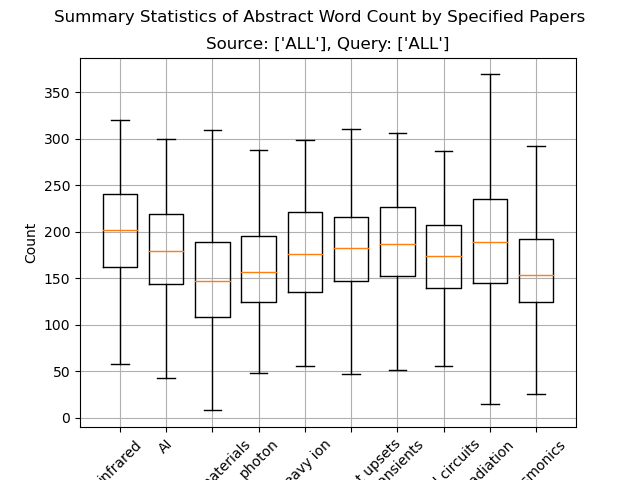
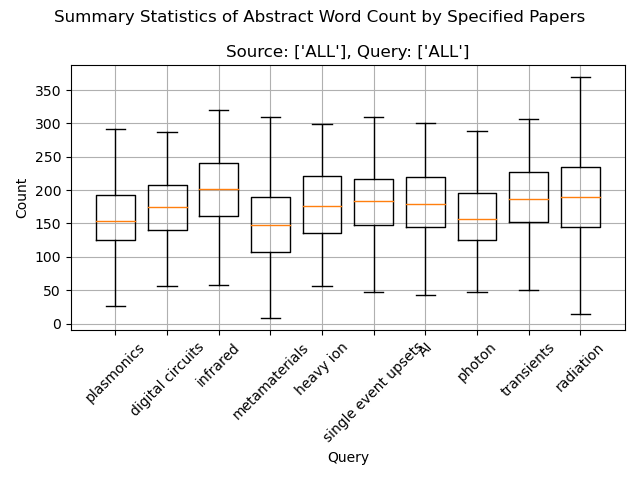
image regeneration, removed duped code from bad merge, added # of articles in db summ title

diff --git a/code/Modules/eda_graphing.py b/code/Modules/eda_graphing.py
@@ -22,6 +22,7 @@ class XForce_Grapher():
         self._queries = None
         self._summary = None
         self._nlp_summary = None
+        self._data_size = None
         self.load("../data/complete_db.csv")
         return None
 
@@ -64,6 +65,7 @@ class XForce_Grapher():
         queries.append("ALL")
 
         self._data = df
+        self._data_size = len(df)
         self._sources = sources
         self._queries = queries
         return None
@@ -126,6 +128,7 @@ class XForce_Grapher():
         plt.grid("True")
         plt.xticks(rotation=45)
         plt.hist(dates, 25, alpha=.75)
+        plt.tight_layout()
         plt.savefig(f"../images/pub_freq/pub_freq_{'_'.join(title_sources)}_{'_'.join(title_queries)}.png")
         plt.show()
 
@@ -205,11 +208,12 @@ class XForce_Grapher():
             p = ax.bar(sources, count, width, label=query, bottom=bottom)
             bottom += count
 
-        plt.title(f"Distribution of Articles")
+        plt.title(f"Distribution of {self._data_size} Articles")
         plt.xlabel("Source")
         plt.ylabel("Counts")
         plt.grid("True")
         plt.legend(loc='upper left', bbox_to_anchor=(1,1))
+        plt.tight_layout()
         plt.savefig(f"../images/db_summ/db_summ.png")
         plt.show()
 
@@ -332,6 +336,7 @@ class XForce_Grapher():
         plt.xticks(rotation=45)
         plt.boxplot(graph_data, positions=np.array(range(len(graph_data)))*2.0, sym='', widths=1.5)
         plt.xticks(range(0, len(queries)*2, 2), queries, rotation=45)
+        plt.tight_layout()
         plt.savefig(f"../images/text_freq/text_freq_{'_'.join(title_sources)}_{'_'.join(title_queries)}.png")
         plt.show()
 
@@ -427,202 +432,6 @@ class XForce_Grapher():
 
         return None
     
-    def load_nlp_summary(self) -> None:
-        """
-        Creates and saves the NLP summary report in class variable.
-
-        Returns -> None
-            Saves the NLP summary report.
-        
-        Example
-            grapher = XForce_Grapher()
-            grapher.load_nlp_summary()
-        """
-        # Filtering
-        df = self._data.copy()
-        df = df[["source", "query", "published", "url", "title", "abstract"]]
-
-        # Cleaning
-        df.dropna(inplace=True)
-        df.loc[:, "title"] = df.loc[:, "title"].map(lambda x: x.lower())
-        df.loc[:, "abstract"] = df.loc[:, "abstract"].map(lambda x: x.lower())
-        punctuation = ["?", "‘", "’", "'", ",", ".", "“", '"', "”", "[", "]", "(", ")", "/"]
-        for mark in punctuation:
-            df.loc[:, "title"] = df.loc[:, "title"].str.replace(mark, "", regex=True)
-            df.loc[:, "abstract"] = df.loc[:, "abstract"].str.replace(mark, "", regex=True)
-
-        # Feature Engineering
-        df["title_char_count"] = df.loc[:, "title"].map(lambda x: len(x))
-        df["title_word_count"] = df.loc[:, "title"].map(lambda x: len(x.split(" ")))
-        df["abstract_char_count"] = df.loc[:, "abstract"].map(lambda x: len(x))
-        df["abstract_word_count"] = df.loc[:, "abstract"].map(lambda x: len(x.split(" ")))
-
-        # Saving
-        self._nlp_summary = df
-        
-        # Return
-        return None
-    
-    def graph_text_count(self, 
-                         queries: list=["ALL"], 
-                         source: str="ALL", 
-                         text_mode: str="word", 
-                         type_mode: str="abstract") -> None:
-        """
-        Graphs the text_mode (character or word) count of type_mode (title or abstract) of paper entries. 
-
-        queries -> list
-            Given list of queries to graph on
-            If list contains the string "ALL", it will graph every query
-
-        source -> str
-            Given source to filter on
-            If given string is "ALL", then it will graph from all sources
-
-        type_mode -> str
-            Given type mode to filter on
-            "title": Graphs on title
-            "abstract": Graphs on abstract
-
-        text_mode -> str
-            Given type mode to filter on
-            "char": Graphs via character count
-            "word": Graphs via word count
-
-        Returns -> None
-            Shows matplotlib graph of the text counts
-        
-        Example
-            grapher = XForce_Grapher()
-            grapher.graph_text_count(queries=["radiation", "plasmonics"], source="arxiv", text_mode="word", type_mode="abstract")
-        """
-        text_mode_options = {"char", "word"}
-        if text_mode not in text_mode_options:
-            raise ValueError(f"{text_mode} invalid; must be {text_mode_options}")
-
-        type_mode_options = {"title", "abstract"}
-        if type_mode not in type_mode_options:
-            raise ValueError(f"{type_mode} invalid; must be {type_mode_options}")
-
-        if source not in self._sources:
-            raise ValueError(f"{source} invalid, must be {self._sources}")
-        
-        for query in queries:
-            if query not in self._queries:
-                raise ValueError(f"{query} in queries list invalid, must be {self._queries}")
-
-        df = self._nlp_summary.copy()
-        if source != "ALL":
-            df = df[df["source"] == source]
-
-        title_label = queries
-        if "ALL" in queries:
-            queries = self._queries.copy()
-            title_label = "ALL"
-
-        expression = f"{type_mode}_{text_mode}_count"
-
-        graph_data = []
-        for query in queries:
-            graph_data.append(df[df["query"] == query][expression])
-
-        plt.title(f"Source: {source}, Query: {title_label}")
-        plt.suptitle(f"Summary Statistics of {type_mode.title()} {text_mode.title()} Count by Specified Papers")
-        plt.xlabel("Query")
-        plt.ylabel("Count")
-        plt.grid("True")
-        plt.xticks(rotation=45)
-        plt.boxplot(graph_data, positions=np.array(range(len(graph_data)))*2.0, sym='', widths=1.5)
-        plt.xticks(range(0, len(queries)*2, 2), queries, rotation=45)
-        plt.show()
-
-        return None
-    
-    def graph_keyword_freq(self, 
-                           queries: list=["ALL"], 
-                           source: str="ALL", 
-                           type_mode: str="abstract", 
-                           k: int=15, 
-                           n_gram: int=1, 
-                           stop_words: set=helper.MASTER_STOP_WORDS) -> None:
-        """
-        Graphs the keyword frequency of the specified papers. 
-
-        queries -> list
-            Given list of queries to graph on
-            If list contains the string "ALL", it will graph every query
-
-        source -> str
-            Given source to filter on
-            If given string is "ALL", then it will graph from all sources
-
-        type_mode -> str
-            Given type mode to filter on
-            "title": Graphs on title
-            "abstract": Graphs on abstract
-
-        k -> int
-            The number of top n-grams to be graphed
-
-        n_gram -> int
-            The n-grams to graph on
-
-        stop_words -> set
-            The set of stop_words to use in the CountVectorizer()
-
-        Returns -> None
-            Shows matplotlib graph of the text counts
-        
-        Example
-            grapher = XForce_Grapher()
-            grapher.graph_text_count(queries=["radiation", "plasmonics"], source="arxiv", type_mode="abstract", k=15, n_grams=1)
-        """
-        df = self._nlp_summary.copy()
-
-        type_mode_options = {"title", "abstract"}
-        if type_mode not in type_mode_options:
-            raise ValueError(f"{type_mode} invalid; must be {type_mode_options}")
-
-        if source not in self._sources:
-            raise ValueError(f"{source} invalid, must be {self._sources}")
-        
-        for item in queries:
-            if item not in self._queries:
-                raise ValueError(f"{item} in your queries list invalid, must be {self._queries}")
-
-        if source != "ALL":
-            df = df[df["source"] == source]
-
-        if "ALL" in queries:
-            queries = self._queries.copy()
-            title_label = "ALL"
-        else:
-            condition_prefix = "df['query'] == "
-            expression = " | ".join([f"({condition_prefix}'{query}')" for query in queries])
-            df = df[eval(expression)]
-            title_label = queries
-
-        X = df.loc[:, type_mode]
-        cvec = CountVectorizer(stop_words=stop_words, ngram_range=(n_gram, n_gram))
-        X_cvec_dense = cvec.fit_transform(X).todense()
-        X_cvec_df = pd.DataFrame(X_cvec_dense, columns=cvec.get_feature_names_out())
-
-        # graphing
-        graph_data = X_cvec_df.sum().sort_values(ascending=False).head(k)
-        plt.title(f"Top {k} Most Common {n_gram}-Grams in Papers from Given Queries")
-        plt.suptitle(f"Source: {source}, Query: {title_label}")
-        plt.xlabel("Count")
-        plt.xticks(rotation=90)
-        plt.ylabel("Tokens")
-        plt.grid(True)
-        plt.barh(graph_data.index[::-1], graph_data.values[::-1], alpha=0.5)
-
-        # saving
-        plt.tight_layout()
-        # plt.savefig(f"../images/most_common_{n_gram}_grams_{subreddit}.png")
-        plt.show()
-
-        return None
 
 #----------------------------------------------------
 # Module Checking
